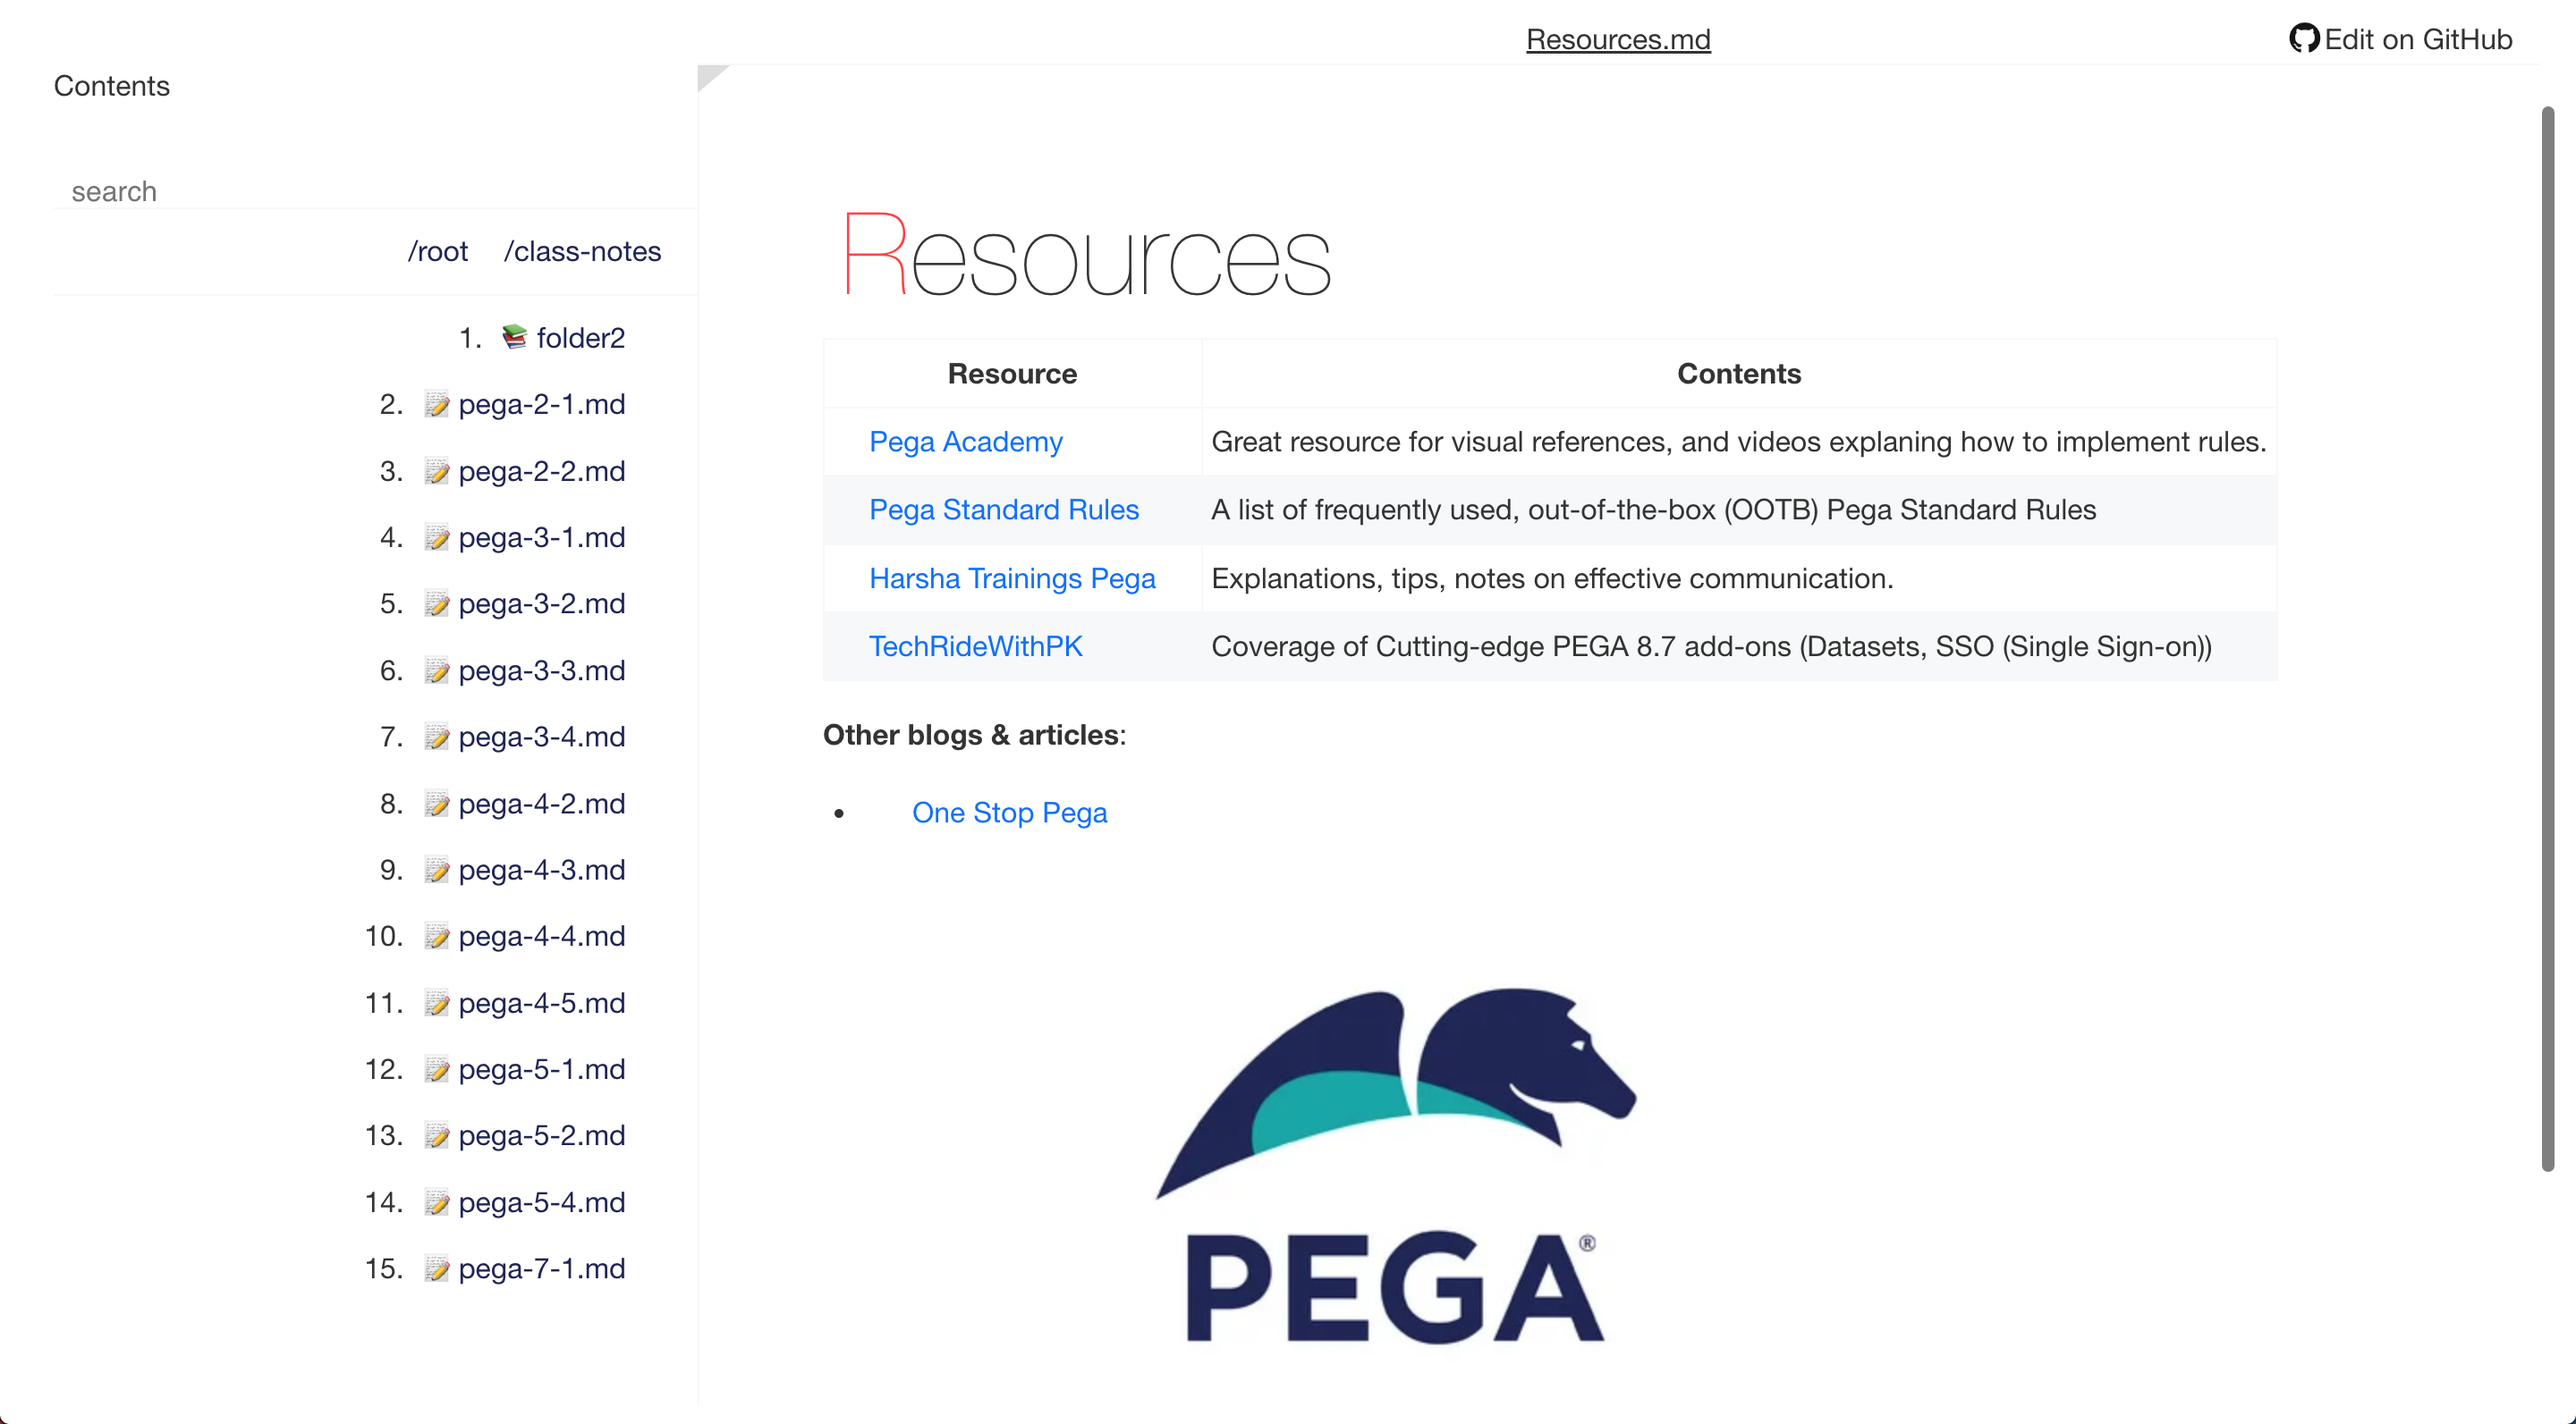
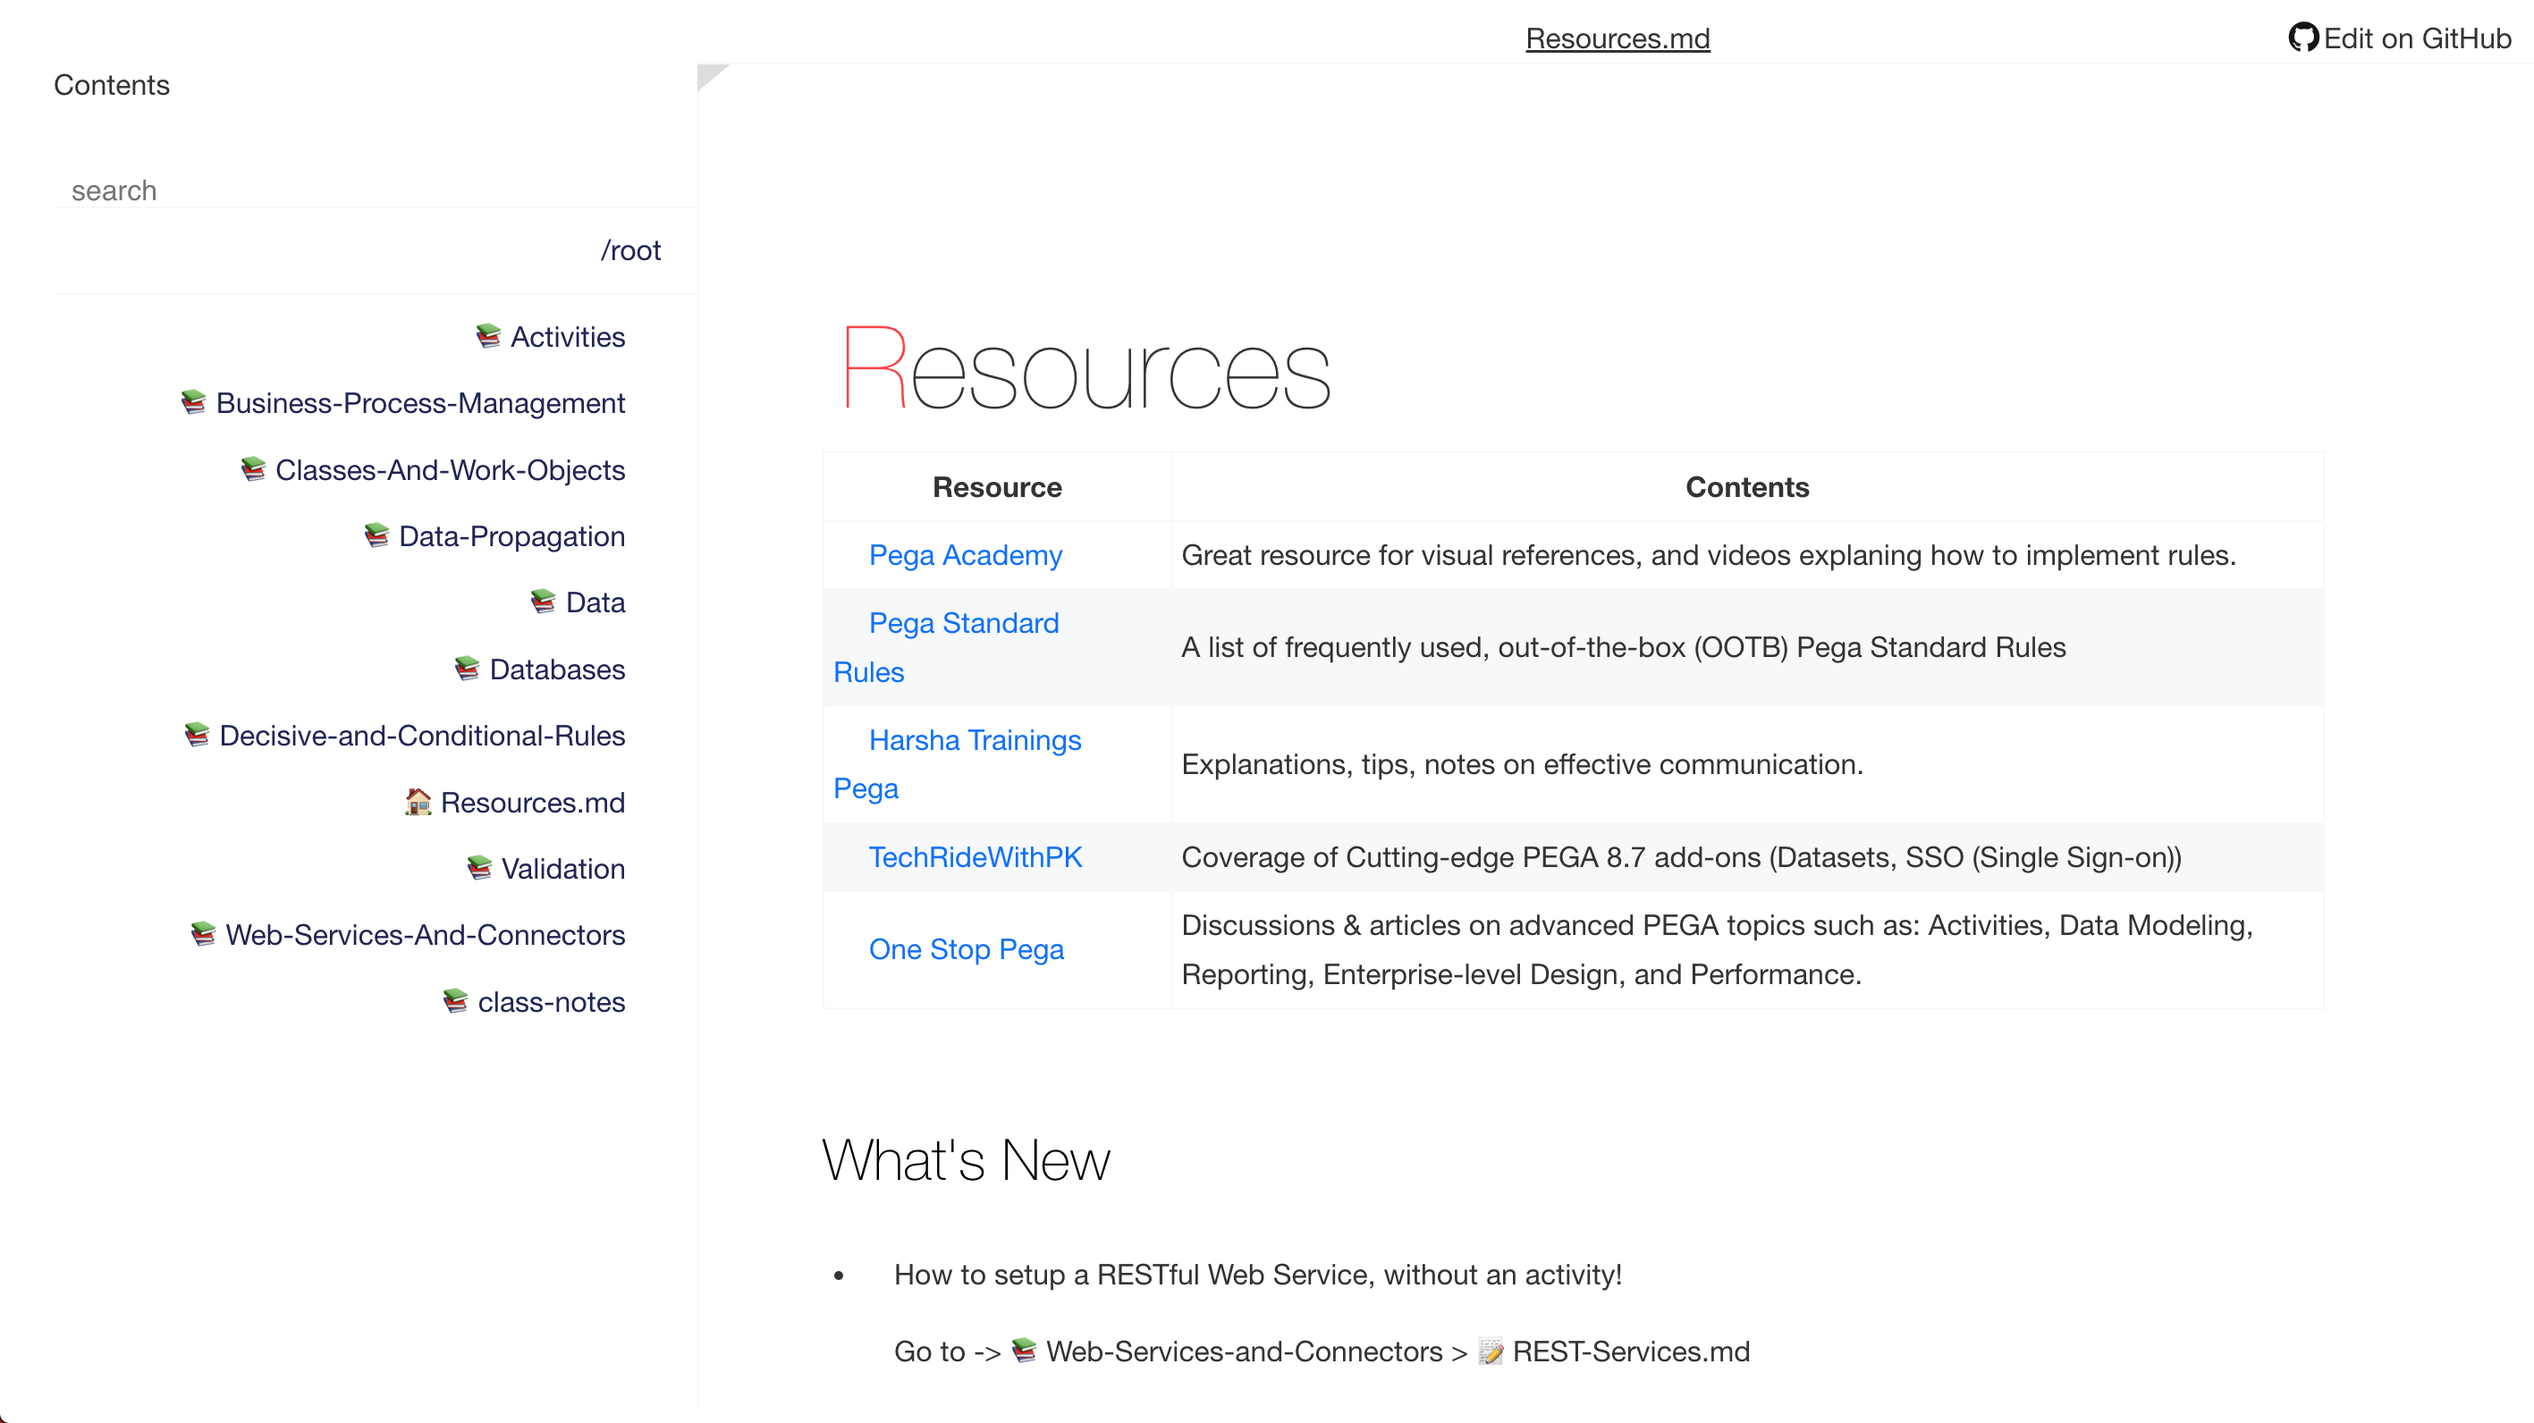
-

diff --git a/src/css/Template.css b/src/css/Template.css
@@ -50,10 +50,6 @@ overrides some markdown styling
   padding: 100px;
 }
 
-#contents::before{
-  counter-increment: contentNumber; content: counter(contentNumber) ".";
-}
-
 #left {
   background-color: #ffffff;
   text-align: right;
